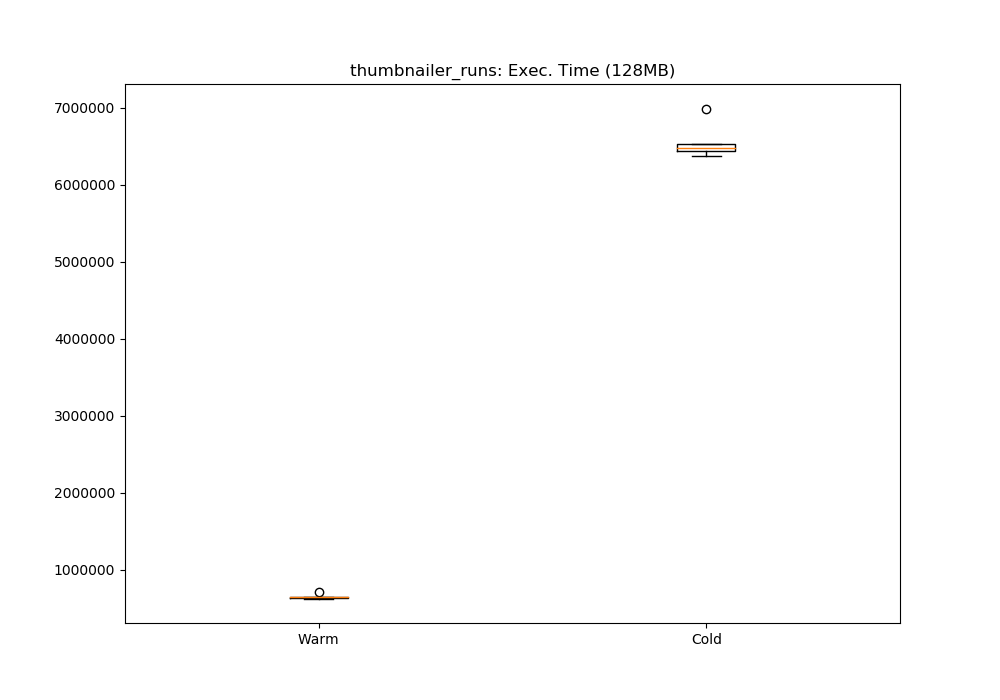
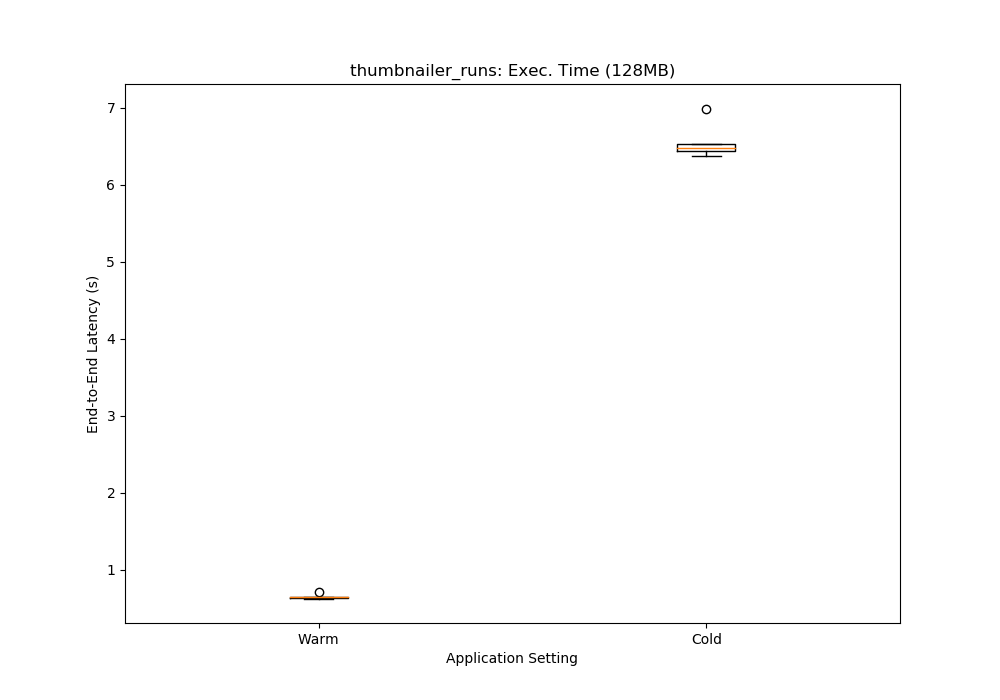
adding labels when plotting

diff --git a/bench_results/plotting.py b/bench_results/plotting.py
@@ -20,6 +20,26 @@ def plot_exec_time_metrics(file_name, show_plots=False):
     # 256NB iterations
     plot_exec_time_helper(file_no_ext, warm256_iters, cold256_iters, 256, show_plots=show_plots)
 
+# helper for plotting execution times; creates box plots of cold vs. warm executions
+def plot_exec_time_helper(plot_title, warm_df, cold_df, mem_size, show_plots=False):
+    fig = plt.figure(figsize =(10, 7))
+    ax = fig.add_subplot(111)
+    
+    # grab the execution time columns
+    warm_exec_time = warm_df["exec_time"] / 1000000 # convert to seconds
+    cold_exec_time = cold_df["exec_time"] / 1000000
+    plt.boxplot([warm_exec_time, cold_exec_time])
+    title = plot_title + ": Exec. Time (" + str(mem_size) + "MB)"
+    plt.title(title)
+    ax.set_xticklabels(["Warm", "Cold"])    # make sure the boxes are labelled properly
+    plt.xlabel("Application Setting")
+    plt.ylabel("End-to-End Latency (s)")
+
+    if show_plots:
+        plt.show()
+
+    plt.savefig("plots/" + plot_title + "_execTime_" + str(mem_size))
+
 # plots a bar chart of average memory usage across all benchmarks
 def plot_mems(file_names, show_plots=False):
     fig = plt.figure(figsize =(10, 7))
@@ -30,39 +50,24 @@ def plot_mems(file_names, show_plots=False):
     # for each file, read the file, get its average memory usage, and keep track of its name
     for f in file_names:
         curr_df = pd.read_csv(f, header=0)
-        print(f"curr_df: {curr_df}")
+        # print(f"curr_df: {curr_df}")
         all_mems.append(np.mean(curr_df["mem_used"].dropna().to_numpy()))
         all_file_names.append(os.path.splitext(f)[0])
-    print(f"all mems: {all_mems}")
-    print(f"all_file_names: {all_file_names}")
+    # print(f"all mems: {all_mems}")
+    # print(f"all_file_names: {all_file_names}")
     plt.bar(all_file_names, all_mems)
+    plt.xlabel("Application Ran")
+    plt.ylabel("Memory Usage (MB)")
+
     plt.title("Memory Usage Across Different Applications")
     
     if show_plots:
         plt.show()
     plt.savefig("plots/MemoryUsage")
 
-# helper for plotting execution times; creates box plots of cold vs. warm executions
-def plot_exec_time_helper(plot_title, warm_df, cold_df, mem_size, show_plots=False):
-    fig = plt.figure(figsize =(10, 7))
-    ax = fig.add_subplot(111)
-    
-    # grab the execution time columns
-    warm_exec_time = warm_df["exec_time"]
-    cold_exec_time = cold_df["exec_time"]
-    plt.boxplot([warm_exec_time, cold_exec_time])
-    title = plot_title + ": Exec. Time (" + str(mem_size) + "MB)"
-    plt.title(title)
-    ax.set_xticklabels(["Warm", "Cold"])    # make sure the boxes are labelled properly
-
-    if show_plots:
-        plt.show()
-
-    plt.savefig("plots/" + plot_title + "_execTime_" + str(mem_size))
-
 if __name__=="__main__":
     files = []
     files += [f for f in os.listdir() if os.path.isfile(f) and f != "plotting.py"]
-    # for f in files:
-    #     plot_exec_time_metrics(f, False)
+    for f in files:
+        plot_exec_time_metrics(f, False)
     plot_mems(files)
